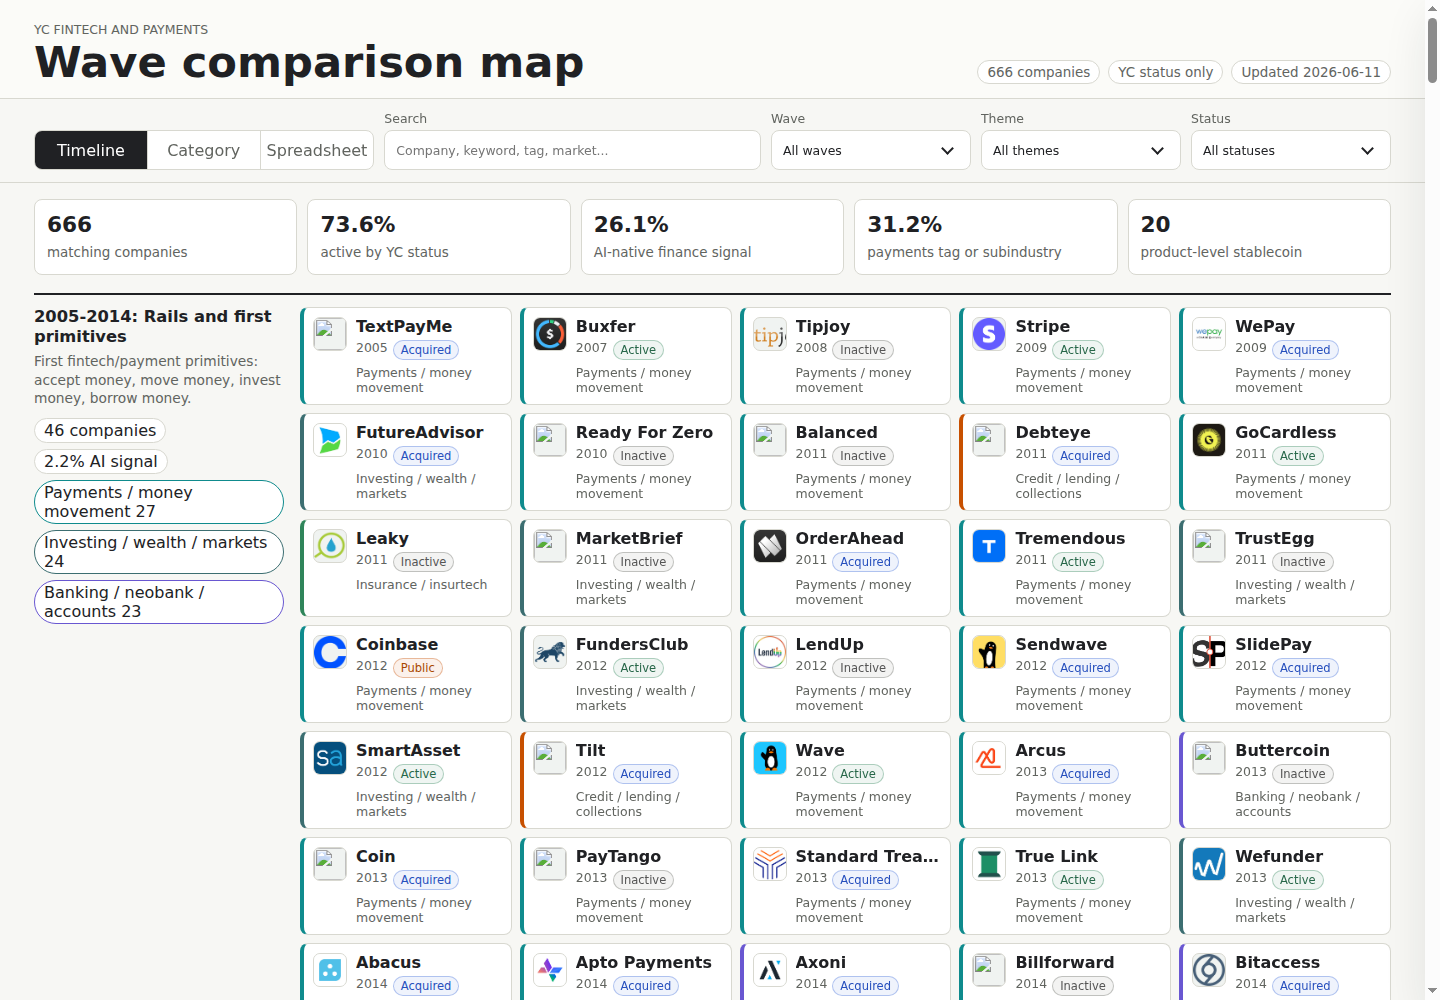
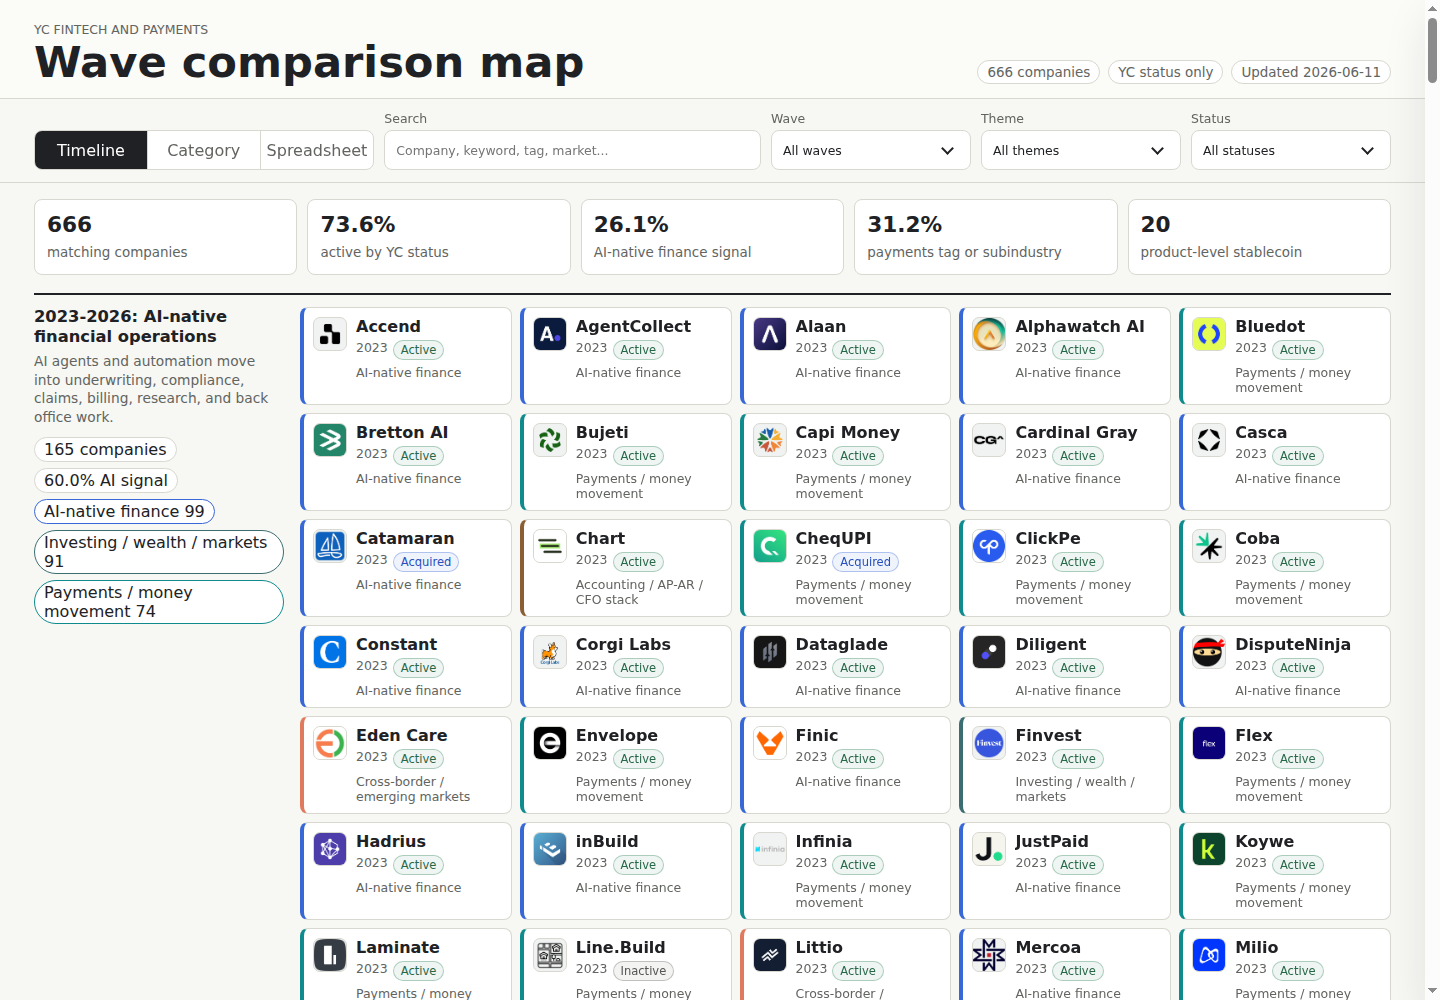
Reverse YC fintech wave timeline

diff --git a/public/yc-fintech-wave-map/app.js b/public/yc-fintech-wave-map/app.js
@@ -318,9 +318,9 @@
     const rowsByWave = new Map(data.waves.map((wave) => [wave.id, []]));
     rows.forEach((company) => rowsByWave.get(company.wave)?.push(company));
 
-    const visibleWaves = data.waves.filter(
-      (wave) => !state.waves.length || state.waves.includes(wave.id),
-    );
+    const visibleWaves = data.waves
+      .filter((wave) => !state.waves.length || state.waves.includes(wave.id))
+      .reverse();
 
     els.timeline.innerHTML = visibleWaves
       .map((wave) => {